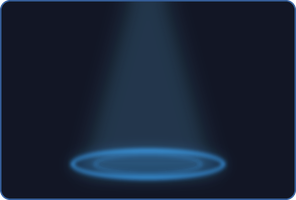
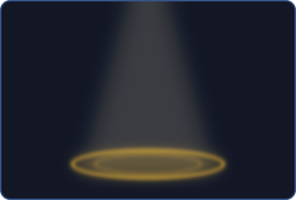
Login and character screens on the D tokens: shadow, gold selection and focus

Changed region(s): [[0.2128, 0.66, 0.7905, 0.93]]

diff --git a/scripts/art/login_ui.py b/scripts/art/login_ui.py
@@ -15,16 +15,18 @@ from PIL import Image, ImageDraw, ImageFilter
 
 SCALE = 4  # drawn large, then scaled down for smooth edges
 
-NAVY = (14, 22, 40, 238)
-NAVY_LIGHT = (24, 36, 60, 245)
-FIELD = (10, 16, 30, 235)
-EDGE = (52, 92, 150, 255)
-GLOW = (64, 170, 255)
+# direction D of docs/ui-redesign.md (scripts/art/ui_kit.py has the same tokens)
+NAVY = (14, 23, 41, 240)
+NAVY_LIGHT = (27, 42, 70, 245)
+FIELD = (8, 14, 26, 235)
+EDGE = (55, 82, 132, 255)
+STAGE = (217, 170, 59)
+SHADOW = (0, 0, 0)
+GOLD = (217, 170, 59, 255)
 WHITE = (236, 242, 255, 255)
 MUTED = (150, 170, 205, 255)
 YELLOW = ((255, 214, 64), (244, 170, 20))
 GREEN = ((62, 200, 120), (28, 150, 82))
-CARD_GREEN = ((40, 150, 110), (22, 96, 76))
 
 
 def canvas(w, h):
@@ -302,14 +304,14 @@ def draw_badge(size=44):
     """The pokeball emblem on top of the login panel."""
     im = canvas(size, size)
     W = im.width
-    halo = Image.new('RGBA', (W, W), GLOW + (0,))
+    halo = Image.new('RGBA', (W, W), SHADOW + (0,))
     m = Image.new('L', (W, W), 0)
     ImageDraw.Draw(m).ellipse((s(4), s(4), W - s(4), W - s(4)), fill=220)
     halo.putalpha(m.filter(ImageFilter.GaussianBlur(s(3))))
     im.alpha_composite(halo)
     d = ImageDraw.Draw(im)
     d.ellipse((s(6), s(6), W - s(6), W - s(6)), fill=NAVY_LIGHT, outline=EDGE, width=s(1.5))
-    ball = draw_pokeball(20, top=(120, 190, 255, 255), line=(14, 22, 40, 255), bottom=(220, 236, 255, 255))
+    ball = draw_pokeball(20, top=GOLD, line=(14, 22, 40, 255), bottom=(238, 242, 255, 255))
     im.alpha_composite(ball, ((W - ball.width) // 2, (W - ball.height) // 2))
     return im
 
@@ -328,7 +330,7 @@ def draw_party_slot(size=40):
 
 
 def draw_portrait(w=82, h=98):
-    im = glow_frame(w, h, 8, (12, 22, 44, 240), EDGE, GLOW, 5)
+    im = glow_frame(w, h, 8, (12, 22, 44, 240), EDGE, SHADOW, 5)
     W, H = im.width, im.height
     spot = Image.new('RGBA', (W, H), (90, 170, 255, 0))
     m = Image.new('L', (W, H), 0)
@@ -470,7 +472,7 @@ def draw_dot(on, size=8):
     im = icon(size)
     d = ImageDraw.Draw(im)
     if on:
-        d.ellipse((s(0.5), s(0.5), s(size - 0.5), s(size - 0.5)), fill=(110, 210, 255, 255))
+        d.ellipse((s(0.5), s(0.5), s(size - 0.5), s(size - 0.5)), fill=GOLD)
     else:
         d.ellipse((s(1), s(1), s(size - 1), s(size - 1)), outline=(90, 120, 170, 255), width=s(1.2))
     return im
@@ -481,20 +483,20 @@ def draw_stage(w=296, h=200):
     im = glow_frame(w, h, 10, (8, 14, 28, 245), EDGE, None, 0)
     W, H = im.width, im.height
     inside = rounded_mask(W, H, s(10), s(1.5))
-    light = Image.new('RGBA', (W, H), (120, 200, 255, 0))
+    light = Image.new("RGBA", (W, H), (255, 236, 200, 0))
     m = Image.new('L', (W, H), 0)
     ImageDraw.Draw(m).polygon(((W * 0.44, 0), (W * 0.56, 0), (W * 0.72, H * 0.86), (W * 0.28, H * 0.86)), fill=46)
     m = m.filter(ImageFilter.GaussianBlur(s(10)))
     light.putalpha(Image.composite(m, Image.new('L', (W, H), 0), inside))
     im.alpha_composite(light)
     cx, cy, rx, ry = W / 2, H * 0.82, W * 0.26, H * 0.075
-    ring = Image.new('RGBA', (W, H), GLOW + (0,))
+    ring = Image.new('RGBA', (W, H), STAGE + (0,))
     m = Image.new('L', (W, H), 0)
     ImageDraw.Draw(m).ellipse((cx - rx, cy - ry, cx + rx, cy + ry), outline=255, width=s(3))
     ImageDraw.Draw(m).ellipse((cx - rx * 0.7, cy - ry * 0.7, cx + rx * 0.7, cy + ry * 0.7), outline=150, width=s(2))
     ring.putalpha(Image.composite(m.filter(ImageFilter.GaussianBlur(s(2))), Image.new('L', (W, H), 0), inside))
     im.alpha_composite(ring)
-    floor = Image.new('RGBA', (W, H), GLOW + (0,))
+    floor = Image.new('RGBA', (W, H), STAGE + (0,))
     m = Image.new('L', (W, H), 0)
     ImageDraw.Draw(m).ellipse((cx - rx, cy - ry, cx + rx, cy + ry), fill=70)
     floor.putalpha(m.filter(ImageFilter.GaussianBlur(s(6))))
@@ -507,17 +509,11 @@ def main():
     out.mkdir(parents=True, exist_ok=True)
 
     # frames (border = radius + glow, see the otui image-border values)
-    save(glow_frame(64, 64, 12, NAVY, EDGE, GLOW, 8), out, 'panel')  # border 22
+    save(glow_frame(64, 64, 12, NAVY, EDGE, SHADOW, 8), out, 'panel')  # border 22
     save(glow_frame(32, 32, 6, FIELD, (44, 70, 112, 255), None, 0), out, 'field')  # border 8
-    save(glow_frame(32, 32, 6, FIELD, (90, 160, 240, 255), None, 0), out, 'field_focus')
+    save(glow_frame(32, 32, 6, FIELD, GOLD, None, 0), out, 'field_focus')
     save(glow_frame(40, 40, 8, (18, 30, 52, 235), (46, 74, 118, 255), None, 0), out, 'card')  # border 10
-    card = canvas(40, 40)
-    g = vertical_gradient(card.width, card.height, CARD_GREEN[0], CARD_GREEN[1])
-    g.putalpha(rounded_mask(card.width, card.height, s(8)))
-    card.alpha_composite(g)
-    ImageDraw.Draw(card).rounded_rectangle((0, 0, card.width - 1, card.height - 1), s(8), outline=(110, 240, 170, 255),
-                                           width=s(1.6))
-    save(card, out, 'card_selected')
+    save(glow_frame(40, 40, 8, NAVY_LIGHT, GOLD, None, 0), out, 'card_selected')
     save(draw_card_create(), out, 'card_create')  # border 12
     save(brighten(draw_card_create(), 1.4), out, 'card_create_hover')
     save(glow_frame(40, 40, 8, (12, 20, 38, 210), (40, 64, 104, 255), None, 0), out, 'inner')  # border 10
@@ -525,7 +521,7 @@ def main():
     # buttons (border 8)
     for name, im in (('button_yellow', gradient_button(48, 32, 7, YELLOW, (255, 236, 150, 255))),
                      ('button_green', gradient_button(48, 32, 7, GREEN, (150, 255, 190, 255))),
-                     ('button_blue', outline_button(48, 32, 7, (70, 140, 230, 255), (22, 44, 84, 235))),
+                     ('button_blue', outline_button(48, 32, 7, (86, 120, 180, 255), (27, 42, 70, 235))),
                      ('button_red', outline_button(48, 32, 7, (232, 92, 92, 255), (62, 22, 30, 235))),
                      ('button_gold', outline_button(48, 32, 7, (226, 178, 62, 255), (40, 32, 14, 230)))):
         save(im, out, name)
@@ -569,7 +565,7 @@ def main():
     accent = (120, 200, 255, 255)
     save(draw_stage(), out, 'stage')
     save(glow_frame(40, 48, 7, (14, 24, 44, 235), (46, 74, 118, 255), None, 0), out, 'thumb')  # border 9
-    save(glow_frame(40, 48, 7, (20, 44, 70, 245), (110, 210, 255, 255), None, 0), out, 'thumb_selected')
+    save(glow_frame(40, 48, 7, NAVY_LIGHT, GOLD, None, 0), out, 'thumb_selected')
     for name, left in (('arrow_left', True), ('arrow_right', False)):
         save(draw_arrow(WHITE, left), out, name)
         save(brighten(draw_arrow(WHITE, left), 1.3), out, name + '_hover')
